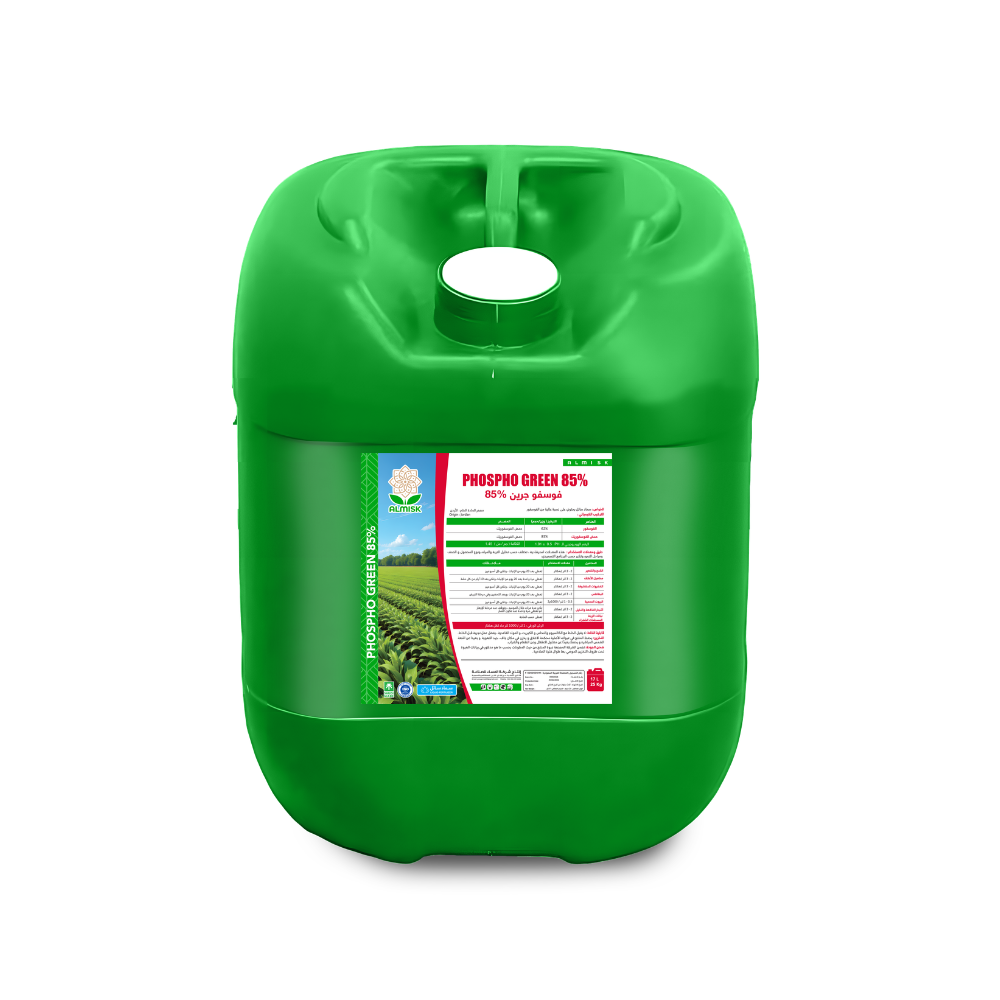
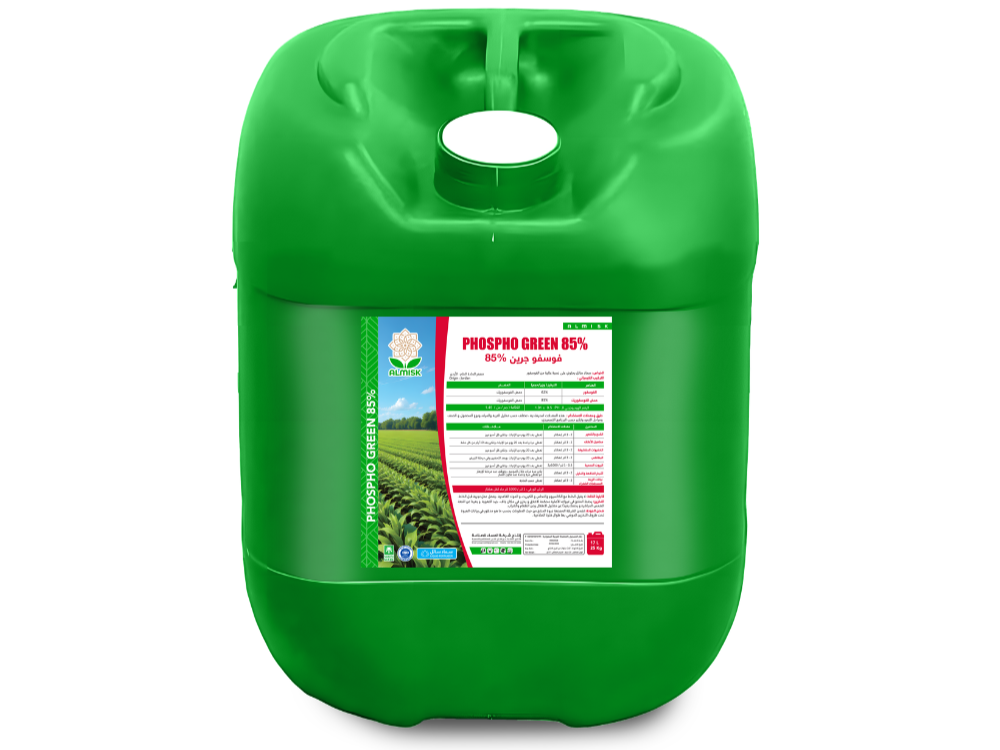
fix subtitle

Changed region(s): [[0.217, 0.0, 0.775, 1.0]]

diff --git a/resources/views/products/show.blade.php b/resources/views/products/show.blade.php
@@ -78,7 +78,7 @@
     @endphp
 
     <!-- Product Top Section -->
-    <div class="grid grid-cols-1 lg:grid-cols-12 gap-8 lg:gap-12 mb-16">
+    <div class="grid grid-cols-1 lg:grid-cols-12 gap-8 lg:gap-12 mb-8 sm:mb-16">
 
         <!-- Gallery -->
         <div class="lg:col-span-7 flex flex-row gap-4 sm:gap-6 items-center">
@@ -173,7 +173,7 @@
 
             @php $subTitle = $product->getTranslation('sub_title', $locale) ?: ($locale === 'ar' ? $product->sub_title_en : $product->sub_title_ar); @endphp
             @if($subTitle)
-            <p class="mt-1 text-lg lg:text-2xl font-extrabold text-primary-600 tracking-wide" dir="ltr">
+            <p style="direction: ltr; unicode-bidi: isolate; text-align: {{ app()->getLocale() === 'ar' ? 'right' : 'left' }};" class="mt-1 text-lg lg:text-2xl font-extrabold text-primary-600 tracking-wide">
                 {{ $subTitle }}
             </p>
             @endif
@@ -237,9 +237,9 @@
     {{-- ─── SECTION 2: Directions & Application Rates ─── --}}
     @if($hasApplicationRates)
     <div class="mb-10">
-        <div class="bg-white rounded-3xl border border-neutral-200/80 shadow-sm overflow-hidden">
+        <div class="bg-white rounded-lg border border-neutral-200/80 shadow-sm overflow-hidden">
             {{-- Section header with accent stripe --}}
-            <div class="bg-[#b5b8c0] px-6 sm:px-8 lg:px-10 py-3.5 flex items-center gap-3">
+            <div class="bg-[#b5b8c0] px-6 sm:px-8 lg:px-10 py-2 flex items-center gap-3">
 
                 <h2 class="text-lg sm:text-xl font-black text-white">
                     {{ $locale === 'ar' ? 'طرق ومعدلات الاستخدام' : 'Directions & Application Rates' }}
@@ -253,14 +253,14 @@
                         <table class="w-full text-sm lg:text-base border-collapse text-center">
                             <thead>
                                 <tr class="bg-[#8e8e90]">
-                                    <th class="border border-neutral-300 text-center py-2.5 px-4 font-bold text-white text-xs sm:text-sm lg:text-base uppercase tracking-wider">
+                                    <th class="border border-neutral-300 text-center py-1.5 px-4 font-bold text-white text-xs sm:text-sm lg:text-base uppercase tracking-wider">
                                         {{ $locale === 'ar' ? 'المحاصيل' : 'Crops' }}
                                     </th>
-                                    <th class="border border-neutral-300 text-center py-2.5 px-4 font-bold text-white text-xs sm:text-sm lg:text-base uppercase tracking-wider">
+                                    <th class="border border-neutral-300 text-center py-1.5 px-4 font-bold text-white text-xs sm:text-sm lg:text-base uppercase tracking-wider">
                                         {{ $locale === 'ar' ? 'معدل الاستخدام مع مياه الري' : 'Application Rate with Irrigation Water' }}
                                     </th>
                                     @if($product->application_rates_has_notes)
-                                    <th class="border border-neutral-300 text-center py-2.5 px-4 font-bold text-white text-xs sm:text-sm lg:text-base uppercase tracking-wider">
+                                    <th class="border border-neutral-300 text-center py-1.5 px-4 font-bold text-white text-xs sm:text-sm lg:text-base uppercase tracking-wider">
                                         {{ $locale === 'ar' ? 'ملاحظات' : 'Notes' }}
                                     </th>
                                     @endif
@@ -286,7 +286,7 @@
                             @if($product->getTranslation('application_rates_footer', $locale))
                             <tfoot>
                                 <tr>
-                                    <td colspan="{{ $product->application_rates_has_notes ? 3 : 2 }}" class="border border-neutral-300 bg-[#8e8e90] text-white text-center py-3 lg:py-4 px-4 font-semibold text-sm lg:text-base">
+                                    <td colspan="{{ $product->application_rates_has_notes ? 3 : 2 }}" class="border border-neutral-300 bg-[#8e8e90] text-white text-center py-2 lg:py-3 px-4 font-semibold text-sm lg:text-base">
                                         <div class="flex items-center justify-center gap-2">
                                             <svg class="w-5 h-5 shrink-0" fill="none" stroke="currentColor" viewBox="0 0 24 24"><path stroke-linecap="round" stroke-linejoin="round" stroke-width="2" d="M13 16h-1v-4h-1m1-4h.01M21 12a9 9 0 11-18 0 9 9 0 0118 0z"/></svg>
                                             <span>{{ $product->getTranslation('application_rates_footer', $locale) }}</span>
@@ -302,8 +302,10 @@
 
                 @else
                     {{-- ═══ TEXT MODE ═══ --}}
-                    <div class="text-neutral-700 leading-relaxed text-sm sm:text-base whitespace-pre-line">
-                        {{ $product->getTranslation('application_rates_text', $locale) }}
+                    <div class="text-neutral-700 leading-relaxed text-sm sm:text-base space-y-1">
+                        @foreach(explode("\n", $product->getTranslation('application_rates_text', $locale)) as $line)
+                        <p style="unicode-bidi: plaintext;">{{ $line }}</p>
+                        @endforeach
                     </div>
                 @endif
             </div>

diff --git a/check_db.php b/check_db.php
@@ -1,0 +1,18 @@
+<?php
+
+use App\Models\Product;
+use Illuminate\Contracts\Console\Kernel;
+
+require __DIR__.'/vendor/autoload.php';
+$app = require_once __DIR__.'/bootstrap/app.php';
+$kernel = $app->make(Kernel::class);
+$kernel->bootstrap();
+
+$products = Product::all();
+foreach ($products as $p) {
+    if (strpos($p->name_ar, 'جرين فارم') !== false) {
+        echo 'Product: '.$p->name_ar."\n";
+        echo 'Sub AR: '.$p->sub_title_ar."\n";
+        echo 'Sub EN: '.$p->sub_title_en."\n";
+    }
+}

diff --git a/check_html.php b/check_html.php
@@ -1,0 +1,14 @@
+<?php
+
+use App\Models\Product;
+use Illuminate\Contracts\Console\Kernel;
+
+require __DIR__.'/vendor/autoload.php';
+$app = require_once __DIR__.'/bootstrap/app.php';
+$kernel = $app->make(Kernel::class);
+$kernel->bootstrap();
+
+$product = Product::where('name_en', 'like', '%MISK - GREEN FARM%')->first();
+$html = view('products.show', ['product' => $product, 'locale' => 'ar'])->render();
+
+echo substr($html, strpos($html, '<p dir="ltr"'), 200);

diff --git a/database/seeders/ProductSeeder.php b/database/seeders/ProductSeeder.php
@@ -587,7 +587,7 @@ class ProductSeeder extends Seeder
                 'name_ar' => 'فوسفوجرين',
                 'name_en' => 'PhosphoGreen',
                 'active_ingredient' => 'Phosphogreen 85%',
-                'sub_title_ar' => 'فوسفوجرين 85%',
+                'sub_title_ar' => '%85 فوسفوجرين ',
                 'sub_title_en' => 'Phosphogreen 85%',
                 'package_sizes_en' => '1 L, 5 L, 20 L',
                 'package_sizes_ar' => '1 لتر, 5 لتر, 20 لتر',

diff --git a/resources/views/components/product-card.blade.php b/resources/views/components/product-card.blade.php
@@ -37,7 +37,7 @@
         </h3>
 
         @if($product->getTranslation('sub_title', app()->getLocale()))
-        <p class="mt-0.5 text-[10px] sm:text-xs font-semibold text-primary-600 line-clamp-1" dir="ltr">
+        <p class="mt-0.5 text-[10px] sm:text-xs font-semibold text-primary-600 line-clamp-1" style="direction: ltr; unicode-bidi: isolate; text-align: {{ app()->getLocale() === 'ar' ? 'right' : 'left' }};">
             {{ $product->getTranslation('sub_title', app()->getLocale()) }}
         </p>
         @endif

diff --git a/resources/views/partials/navbar.blade.php b/resources/views/partials/navbar.blade.php
@@ -14,7 +14,7 @@
     <!-- Main Navigation Bar -->
     <div class="bg-white border-b border-neutral-100">
         <div class="max-w-[1440px] mx-auto px-4 sm:px-6 lg:px-12">
-            <div class="flex items-center justify-between h-32 sm:h-36 xl:h-36 transition-all duration-300 w-full relative" id="nav-container">
+            <div class="flex items-center justify-between h-28 sm:h-32 lg:h-36 xl:h-32 transition-all duration-300 w-full relative" id="nav-container">
                 
                 <!-- Mobile Menu Button -->
                 <button id="mobile-menu-btn" class="xl:hidden p-2 rounded-full text-neutral-600 hover:bg-primary-50 hover:text-primary-600 transition-all duration-300 z-10 order-1 xl:order-none">